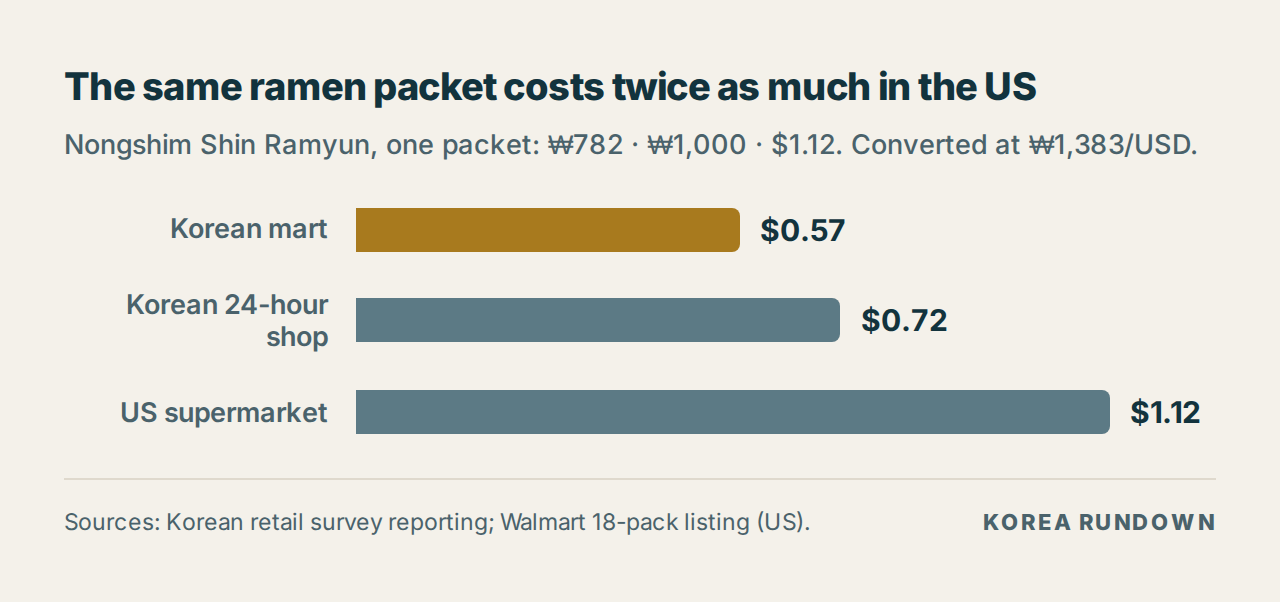
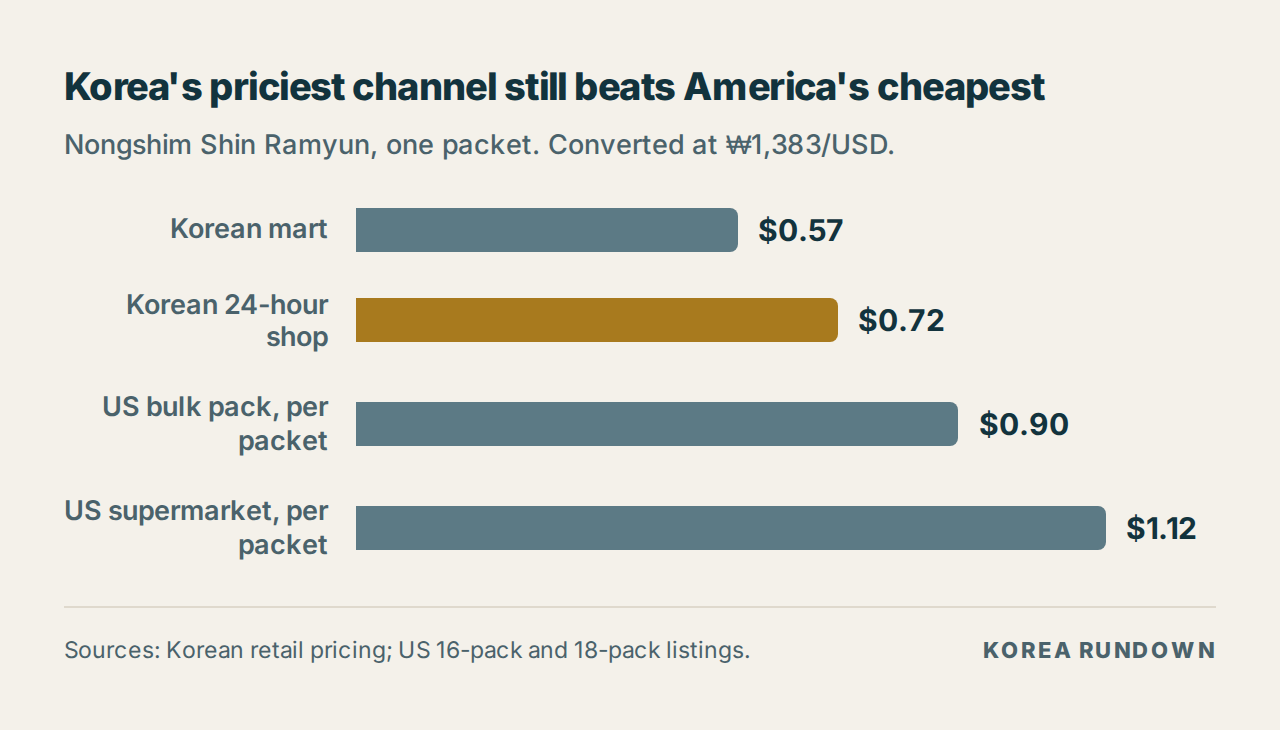
Recentre the ramen post on the convenience-store price
The hypermarket price anchored this post and cannot be photographed on a night
schedule, so the convenience-store price takes its place - the number that can
be stood in front of belongs at the centre.

Swapping the numbers straight across would have made the comparison worse, not
better: Korea's most expensive channel against America's cheapest understates
the gap. So the post makes that the argument instead. Korea's priciest way to
buy the packet, $0.72 at a 24-hour shop, still undercuts $0.90 per packet in a
subscription-discounted US 16-pack, which is about as low as the product goes
there. That is a stronger claim than the "twice as much" it replaces, and it
survives the least favourable channel matching anyone could ask for.

The old headline compared $0.57 at a hypermarket with $1.12 at a US
supermarket - true, but the cheapest Korean channel against a mid US one. The
table now carries all four channels so a reader can match them however they
like.

The hypermarket figure stays as an aside, verifiable from an online listing
rather than a trip, and the checklist asks for one convenience-store shelf tag
instead.

Claude-Session: https://claude.ai/code/session_01DXjPNUhpp2Fxvaqj7RdKND

Changed region(s): [[0.0312, 0.0894, 0.9375, 0.8046], [0.0312, 0.8344, 0.625, 0.9238], [0.75, 0.8344, 0.9688, 0.9238]]

diff --git a/drafts/2026-08-25-korea-ramen-price-freeze.md b/drafts/2026-08-25-korea-ramen-price-freeze.md
@@ -6,10 +6,11 @@
 > 확인해야 할 곳:
 > - **각 사 보도자료** — 농심·오뚜기·팔도의 인상 품목 수, 인상률, 시행일
 > - **삼양식품이 정말 전 품목 동결인지** — 기사 한 곳에 의존한 부분입니다
-> - **신라면 봉지 소매가(₩782~820 / 편의점 ₩1,000)** — 이 수치는 **2025년 기준 보도**에서
->   나온 것입니다. 이번 라운드에서 봉지면이 동결됐으니 유효할 가능성이 높지만,
->   2025년 중 7~10% 인상이 있었다는 보도도 있어 **현재가 확인이 꼭 필요합니다.**
->   가능하면 `price.go.kr` 참가격 가공식품 또는 대형마트 시세로 확정하세요.
+> - **편의점 신라면 봉지 ₩1,000** — 본문의 기준 숫자입니다. **편의점에서 가격표를
+>   찍어 확인**하세요 (촬영 목록 참고). 이 한 장이 검증과 근거를 동시에 해결합니다.
+> - **대형마트 ₩782** — 보조 수치입니다. 마트에 가실 필요 없이 **이마트몰·홈플러스 등
+>   온라인 가격 캡처**로 확인하면 충분합니다. 두 수치 모두 2025년 기준 보도에서
+>   나온 것이라 현재가 확인이 필요합니다(봉지면은 이번에 동결됐으니 유효할 가능성은 높습니다).
 > - **미국 가격($1.12/봉지)** — Walmart 18개들이 리스팅 기준입니다. 소매 시세라
 >   수시로 바뀌니 발행 시점에 다시 확인하고, 확인일을 본문에 적으세요.
 >
@@ -85,20 +86,28 @@ holds, and holds, and then every maker moves within a few weeks of each other.
 Here is the comparison that surprises people, because it runs the other way from
 restaurant food.
 
-![The same ramen packet costs twice as much in the US](../figures/ramen-packet-korea-vs-us.png)
+![Korea's priciest channel still beats America's cheapest](../figures/ramen-packet-korea-vs-us.png)
 
-| Where | Price per packet | In dollars |
+Start with the price you would actually pay walking in off the street at three in the
+morning: a Shin Ramyun packet at a Korean 24-hour convenience store is **₩1,000, about
+$0.72**. That is not a bargain price. Convenience stores are the most expensive way to
+buy groceries in Korea — roughly 28% above what the same packet costs at a hypermarket.
+
+| Where | Per packet | In dollars |
 |---|---|---|
 | Korean hypermarket | ₩782 | $0.57 |
-| Korean convenience store | ₩1,000 | $0.72 |
-| US supermarket (18-pack) | ₩1,549 | $1.12 |
+| **Korean convenience store** | **₩1,000** | **$0.72** |
+| US bulk pack, per packet (16-pack) | ₩1,245 | $0.90 |
+| US supermarket, per packet (18-pack) | ₩1,549 | $1.12 |
 
-> Nongshim Shin Ramyun, one packet. Korean prices from retail reporting; US price
-> from a Walmart 18-pack listing. Converted at ₩1,383/USD.
+> Nongshim Shin Ramyun, one packet. Converted at ₩1,383/USD.
 
-The identical product costs about **twice as much** in an American supermarket as in a
-Korean one — and a US bulk pack still runs above what a Korean 24-hour convenience
-store charges, which is itself about 28% above hypermarket price.
+Now compare like with like, and the result is sharper than a straight price gap:
+**Korea's most expensive way to buy this packet is still cheaper than America's
+cheapest.** $0.72 at a 24-hour shop undercuts the $0.90 per packet in a
+subscription-discounted US 16-pack — about as low as the product goes there. Against
+an ordinary 18-pack at $1.12, the Korean convenience store is roughly 55% cheaper for
+the identical item.
 
 That gap is *smaller* than the one for eating out, where a Seoul lunch runs about a
 third of the American equivalent. Manufactured goods travel; restaurant labour and
@@ -110,7 +119,8 @@ and none of them apply to a bowl of noodles served across a counter in Seoul.
 - **Buy packets, not cups.** The price gap was already wide; this round widened it.
   A packet is roughly half the price of a cup, and that ratio just improved.
 - **Hypermarket over convenience store** for anything you are not eating in the next
-  ten minutes — about 28% on the same item.
+  ten minutes — about 28% on the same item. Though at $0.72 the convenience store is
+  still under any US price, so this is optimisation, not necessity.
 - **Samyang products are the ones holding price** this round, if you are indifferent
   between brands.
 - **Stock up before September 7** only if you were buying cups anyway. Packets are
@@ -119,8 +129,9 @@ and none of them apply to a bowl of noodles served across a counter in Seoul.
 ## FAQ
 
 **Is Korean ramen cheaper in Korea than in the US?**
-Yes — about half the price for the same packet. A Shin Ramyun packet runs roughly
-$0.57 at a Korean hypermarket against about $1.12 in a US supermarket bulk pack.
+Yes, at every channel. A packet runs about $0.72 at a Korean 24-hour convenience store
+— the most expensive way to buy it there — against $0.90 to $1.12 per packet in US
+bulk packs. At a Korean hypermarket it is about $0.57.
 
 **Why are cup noodles going up but not packets?**
 Cups carry more packaging cost, and packet ramen is a politically sensitive price in
@@ -142,8 +153,8 @@ than a decision.
 ## Sources
 
 - Company price announcements (Nongshim, Ottogi, Paldo), as reported in Korean media, August 2026
-- Korean retail price reporting for Shin Ramyun packet pricing
-- Walmart product listing, Nongshim Shin Ramyun 18-pack (US)
+- Korean retail price reporting for Shin Ramyun packet pricing (convenience store and hypermarket)
+- US listings, Nongshim Shin Ramyun 16-pack and 18-pack, per-packet unit price
 - Exchange rate: ₩1,383/USD, August 24, 2026
 
 ---
@@ -153,11 +164,12 @@ than a decision.
 - [ ] 위 경고 블록을 지웠다
 - [ ] 각 사 보도자료로 인상률·시행일·품목 수를 확인했다
 - [ ] 삼양식품 전 품목 동결을 확인했다
-- [ ] **신라면 봉지 현재 소매가를 확인했다** (2025년 보도 기준이라 특히 중요)
+- [ ] **편의점 신라면 가격표를 찍어 ₩1,000을 확인했다** (본문 기준 숫자)
+- [ ] 대형마트 ₩782를 온라인 가격으로 확인했다 (보조 수치, 방문 불필요)
 - [ ] 미국 가격을 발행일 기준으로 다시 확인하고 확인일을 적었다
 - [ ] 환율과 기준일이 본문 전체에서 하나로 통일돼 있다
 - [ ] 표를 이미지가 아니라 **HTML 텍스트 표**로 넣었다
 - [ ] 이미지 2장에 alt 텍스트를 넣었다
 - [ ] `og:image`를 `ramen-freeze-2026.png`로 지정했다
 - [ ] Related 링크를 실제 발행 URL로 바꿨다
-- [ ] 마트·편의점 가격표 사진을 넣었다 (1차 경험)
+- [ ] 편의점 가격표 사진을 넣었다 (1차 경험 + 검증)
